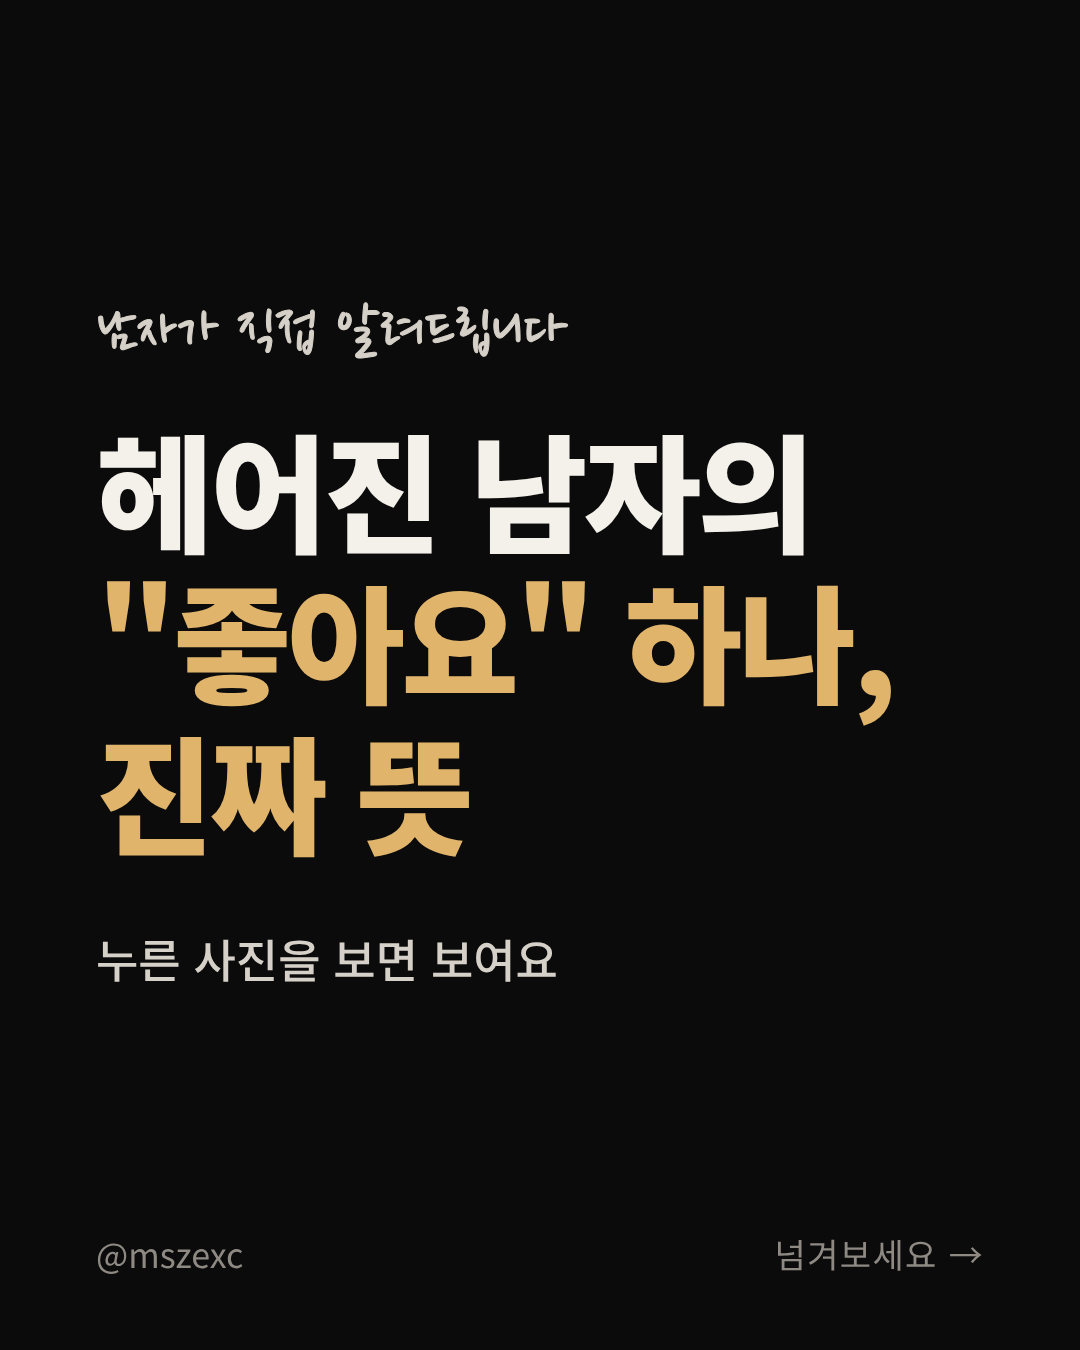
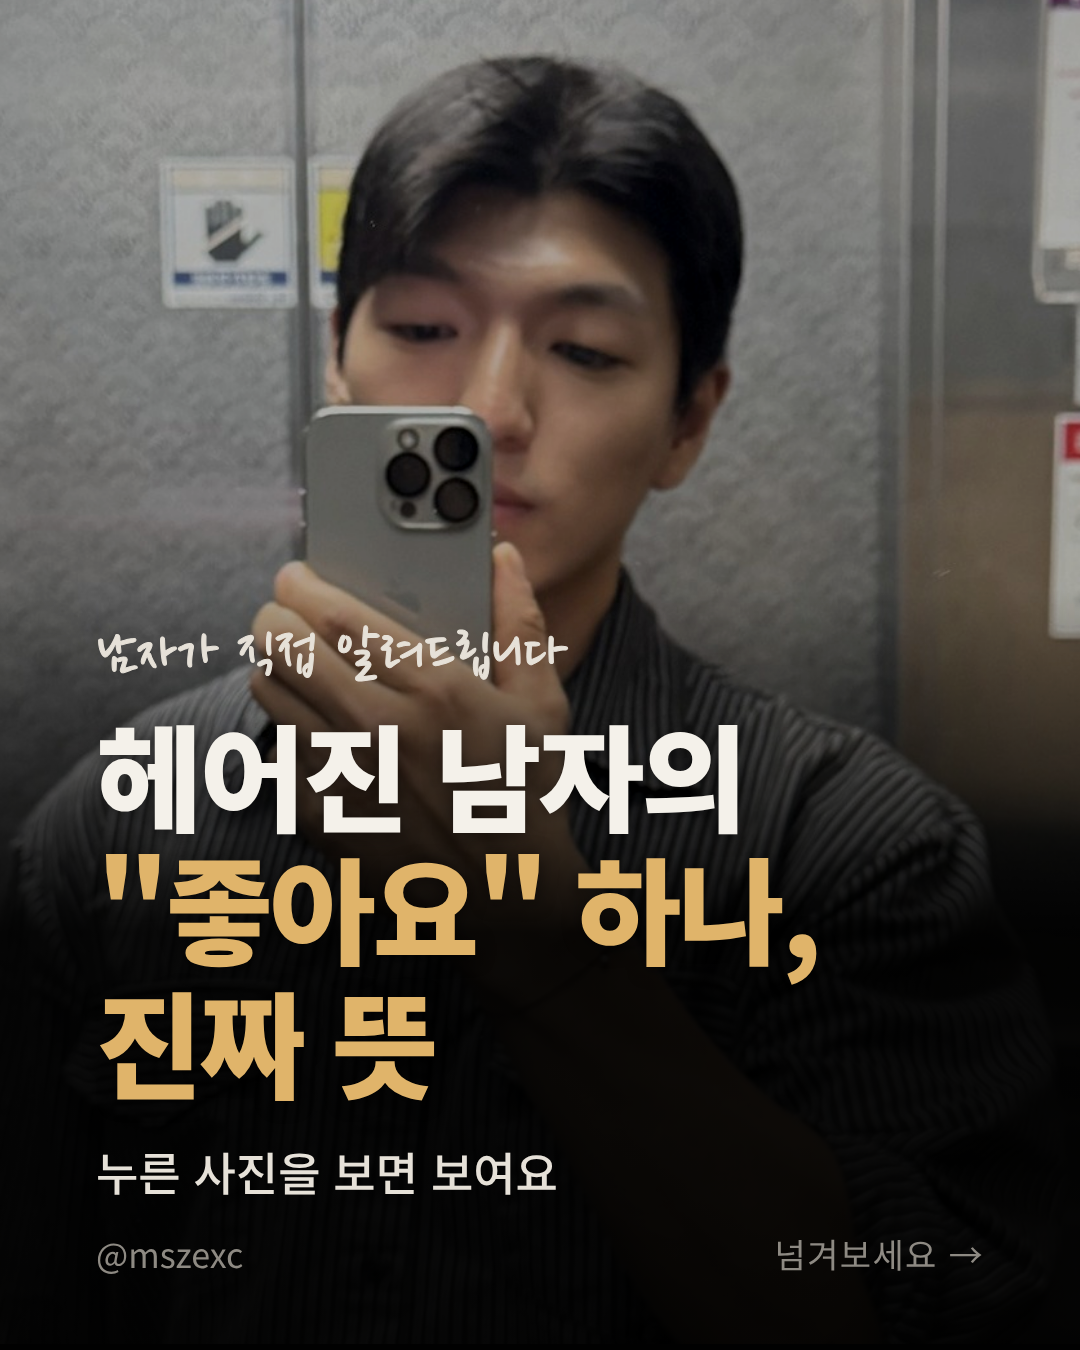
Photo-cover test: #36 cover with photo, weekly test rule
Claude-Session: https://claude.ai/code/session_01J9i5yL8MFhQ5W67Sx3nDW6

diff --git a/carousel/carousel_36.html b/carousel/carousel_36.html
@@ -147,13 +147,20 @@
 <style>
   .teaser { margin-top:36px; font-size:36px; color:var(--accent); font-weight:700; }
 </style>
+<style>
+  /* 사진 표지 (10/29 시험): 고딕 큰 제목 + 손글씨 윗줄 */
+  #s1 .pc-top { font-family:'Nanum Pen Script',cursive; font-size:64px; color:#e6e1d8; -webkit-text-stroke:1px currentColor; }
+  #s1 .pc-title { font-family:'Noto Sans KR',sans-serif; font-weight:900; font-size:116px; line-height:1.15; letter-spacing:-0.03em; margin-top:10px; text-shadow:0 2px 18px rgba(0,0,0,.5); }
+</style>
 </head>
 <body>
 <section class="slide" id="s1">
-  <div class="cover-c">
-    <div class="small">남자가 직접 알려드립니다</div>
-    <div class="pen mt-s" style="font-size:128px !important">헤어진 남자의<br><span class="accent">"좋아요" 하나,<br>진짜 뜻</span></div>
-    <div class="body mt-m" style="color:#d6d1c8">누른 사진을 보면 보여요</div>
+  <img src="cover_photo_03.jpg" style="position:absolute; left:-170px; top:-430px; width:1420px; height:auto; filter:brightness(.85) contrast(1.05)">
+  <div class="shade" style="height:760px"></div>
+  <div class="cover-text" style="bottom:140px">
+    <div class="pc-top">남자가 직접 알려드립니다</div>
+    <div class="pc-title">헤어진 남자의<br><span class="accent">"좋아요" 하나,<br>진짜 뜻</span></div>
+    <div class="body mt-s" style="color:#e6e1d8">누른 사진을 보면 보여요</div>
   </div>
   <div class="handle">@mszexc</div>
   <div class="series">넘겨보세요 →</div>

diff --git a/carousel/plan90/topics.py b/carousel/plan90/topics.py
@@ -130,6 +130,7 @@ RULES = [
  ('그녀의 말 (10/28)', '매주 → 격주 일요일. 빠진 자리는 머릿속 · 이별로.'),
  ('#24 시험 결과', '5.8만 · 공유 85로 통과. "식을 때"는 캐러셀에 남기고 목차 그대로.'),
  ('다른 여자 · SNS (10/28)', '11/6 「좋아요 누를 때」를 시험으로. 24시간에 1만을 넘으면 목차의 나머지 4편(11/29 · 12/11 · 12/17 · 1/3)대로 가고 예비에서 더 꺼내요. 못 넘으면 11/21 한 편만 남기고 나머지는 번역 · 이별로 되돌려요.'),
+ ('사진 표지 시험 (10/29~)', '주 1편, 저녁 이별 · 머릿속 편 표지에 지훈님 사진. 첫 편은 10/30 #36 「헤어진 남자의 좋아요」. 비교 기준은 같은 이별 편 #25(3일 4만) · #34. 사진은 매주 새로 1장(밤 셀카 · 얼굴이 화면 위쪽 절반에 오게 · 아래 절반은 제목 자리). 3편 해보고 사진 표지가 조회 · 팔로우 · 스토리 조회를 같이 올리면 주 2편으로 늘려요.'),
  ('지켜볼 것', '#31(한 마디 번역)이 내일 1만을 못 넘으면 남은 한 마디 번역(이별 · 싸움)도 묶음으로 바꿔요. #32 머릿속이 #22처럼 공유 100을 넘으면 머릿속을 더 늘려요.'),
 ]
 
